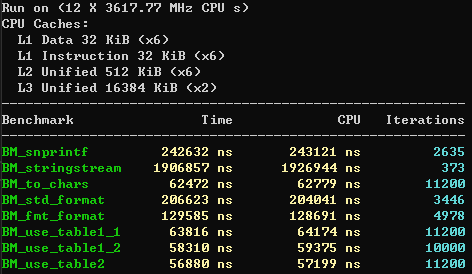
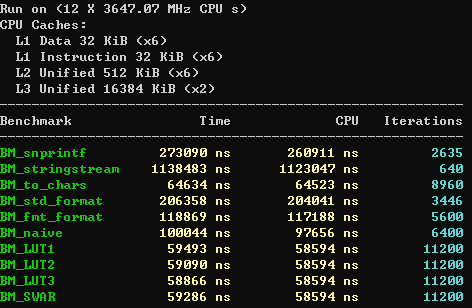
Update README.md

Changed region(s): [[0.0, 0.0, 1.0, 0.9927]]

diff --git a/README.md b/README.md
@@ -10,7 +10,12 @@ Performance comparison of dec-to-hex implementations
   - `std::to_chars`
 - C++20
   - `std::format`
-- Custom hex functions using lookup table
+- Custom hex functions
+  - `Naive` : 4-bit shift then correct ASCII value
+  - `LUT1` : 4-bit shift with a 16-bit lookup table
+  - `LUT2` : 16-bit shift with a 16-bit lookup table
+  - `LUT3` : 16-bit shift with a 512-bit lookup table
+  - `SWAR` : use SIMD Within A Register (SWAR) techniques
 
 ## Build
 
@@ -27,10 +32,20 @@ cmake --workflow --preset windows
 
 ### Clang
 
-[Quick-bench](https://quick-bench.com/q/DPYQSsyR6-rW36621SEcjdKUqSE)
+[Quick-bench](https://quick-bench.com/q/f40pGWQkzPIRIFPsrXjig_SEZfY)
+
 ![clang](benchmark/result/clang.png)
 
 ### GCC
 
-[Quick-bench](https://quick-bench.com/q/QjM2hP1i0i6RaGuzs8Mlua0rgB8)
+[Quick-bench](https://quick-bench.com/q/cZyqicUAr8eX2Rs7HyRrFkP85YE)
+
 ![gcc](benchmark/result/gcc.png)
+
+## References
+
+- `std::to_chars` implementations
+  - [MSVC](https://github.com/microsoft/STL/blob/8ddf4da23939b5c65587ed05f783ff39b8801e0f/stl/inc/charconv#L116-L121)
+  - [Clang](https://github.com/llvm/llvm-project/blob/b20dd2b186fdc76828219b705a2b58f5830f4b9d/libcxx/include/charconv#L443-L466)
+  - [GCC](https://github.com/gcc-mirror/gcc/blob/d423e8dc59045d8f281dcb1a02559cb6f91456bf/libstdc%2B%2B-v3/include/std/charconv#L169-L213)
+- [Conversion numbers to hexadecimal representation](http://0x80.pl/articles/convert-to-hex.html)
